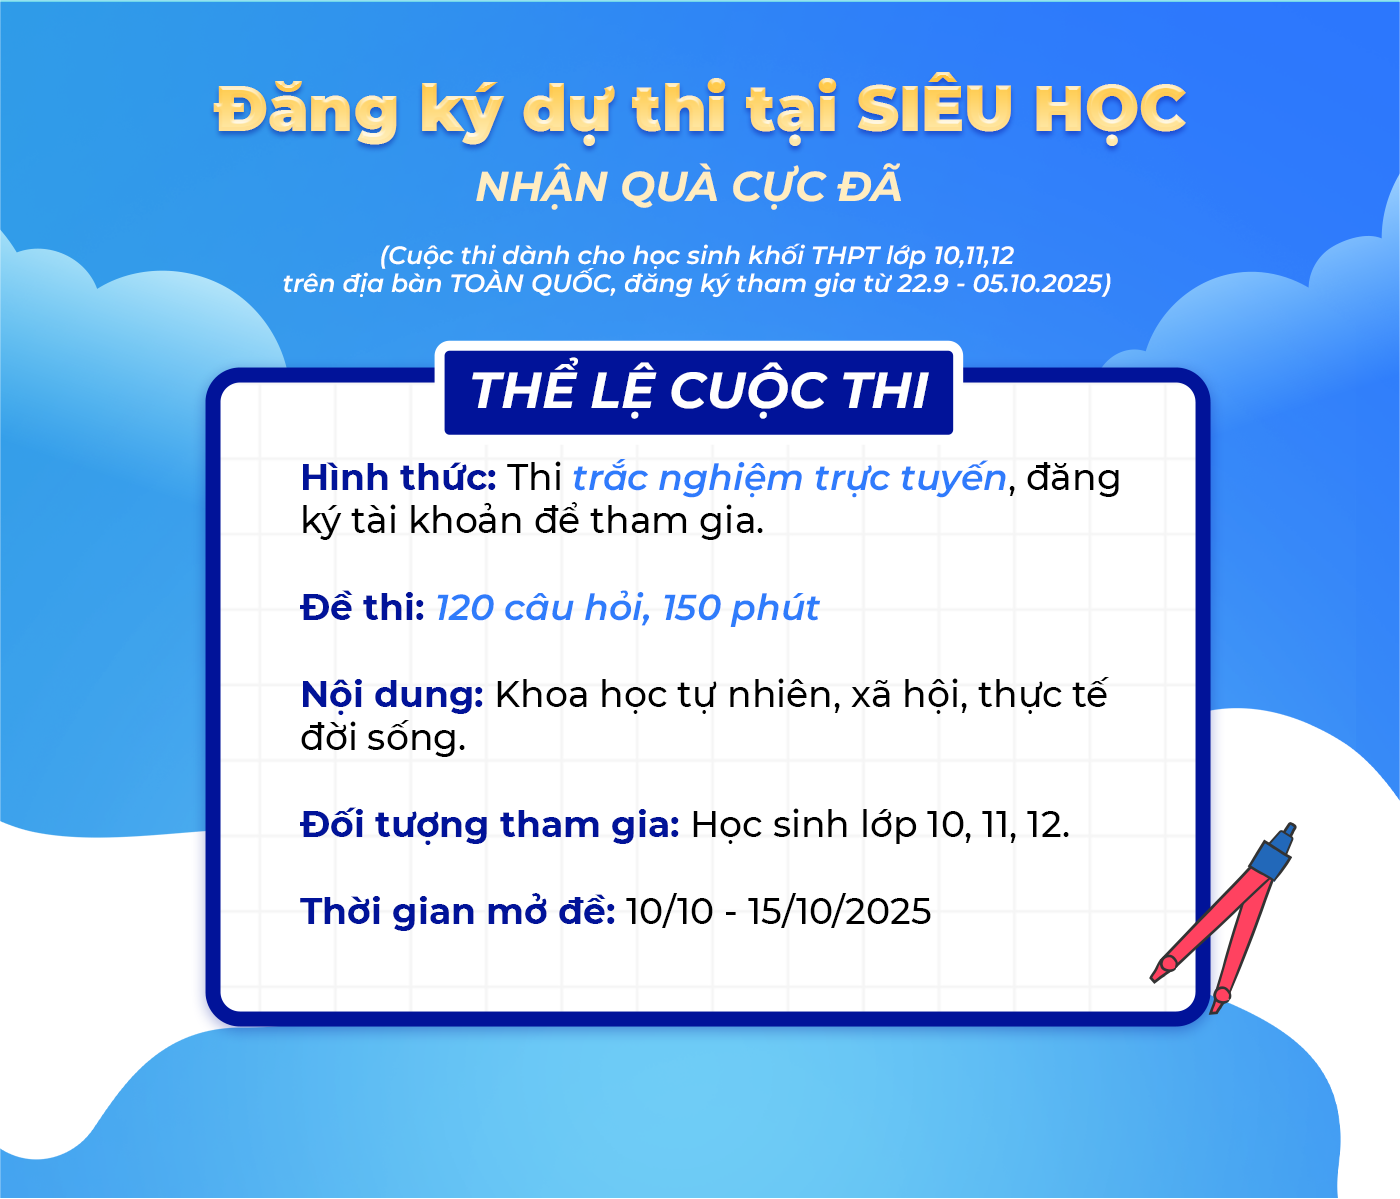
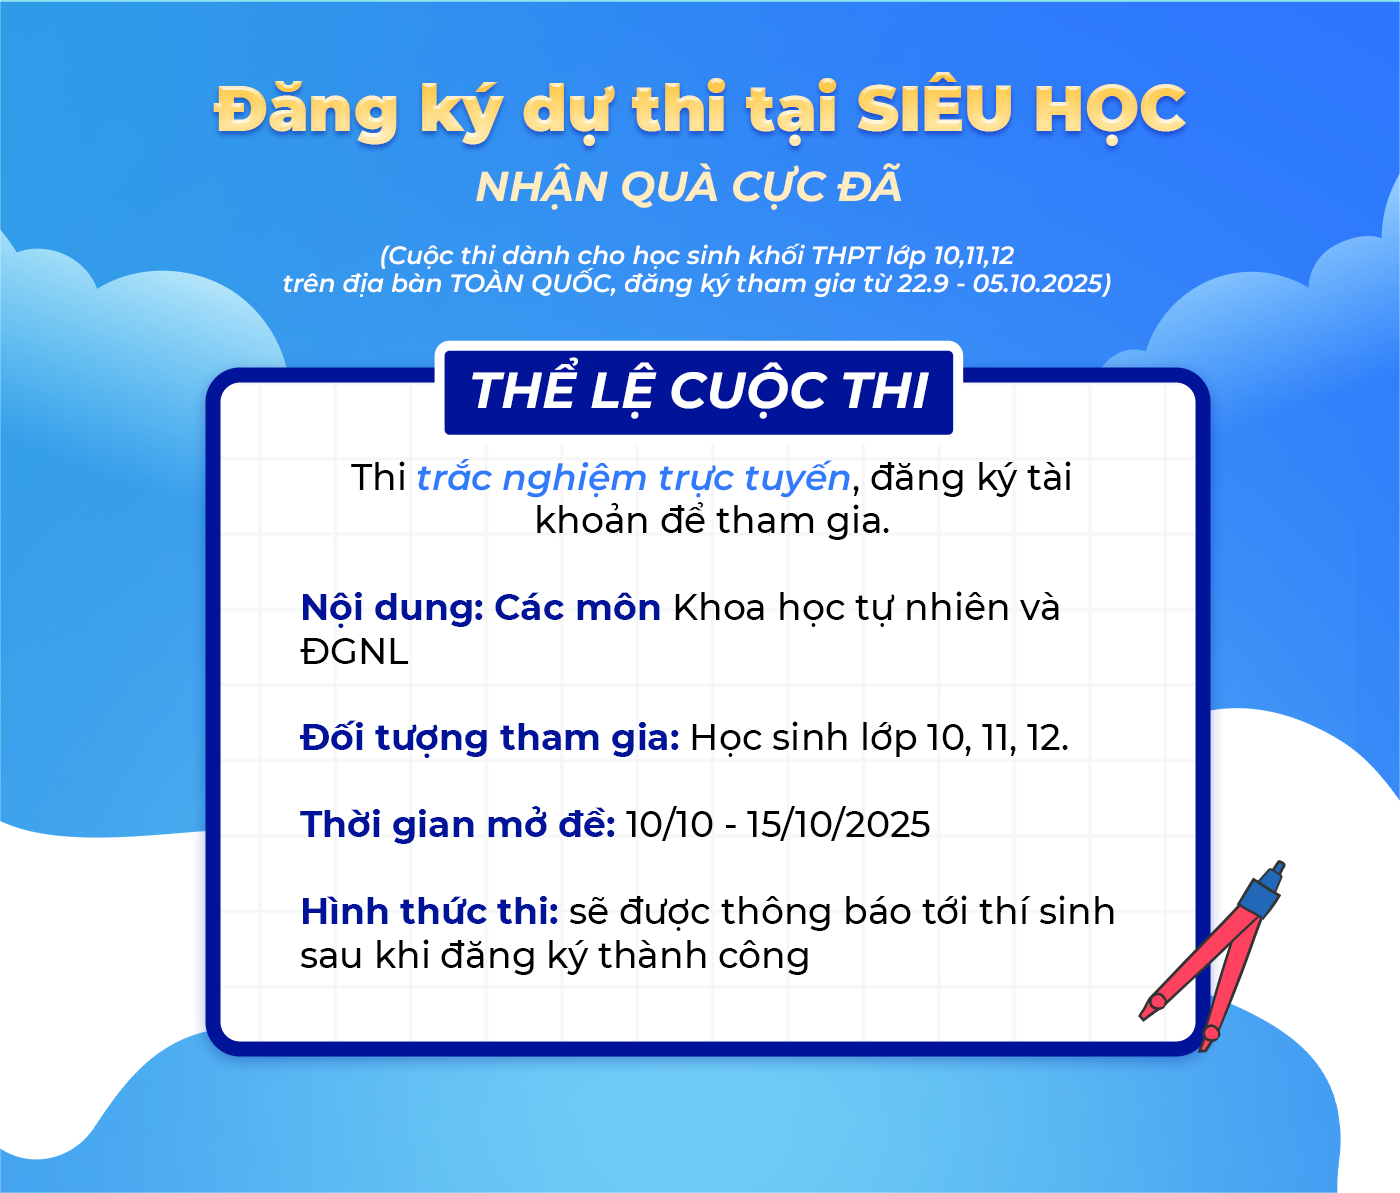
check sieu hoc 5

diff --git a/style.css b/style.css
@@ -24,7 +24,7 @@ body {
 .container { max-width: 1200px; margin: 0 auto; padding: 0 20px; }
 
 /* --- Top Bar Header --- */
-.top-bar { background: var(--gradient-main); color: white; padding: 16px 0; font-size: 1rem; box-shadow: var(--shadow-main); border-bottom-left-radius: 30px; border-bottom-right-radius: 30px; }
+.top-bar { background: var(--gradient-main); color: white; padding: 16px 0; font-size: 1rem; box-shadow: var(--shadow-main); border-bottom-left-radius: 30px; border-bottom-right-radius: 30px; position: relative;}
 .top-bar-content { display: flex; justify-content: space-between; align-items: center; gap: 20px; }
 .top-bar .logo img { height: 45px; display: block; }
 .top-bar-text { flex-grow: 1; text-align: left; margin: 0; }
@@ -124,6 +124,7 @@ body {
     background-color: var(--wave-blue); padding: 20px 0; text-align: center;
     border-bottom-left-radius: 50% 20%; border-bottom-right-radius: 50% 20%;
     position: relative; z-index: 10;
+    margin-top: 10px;
 }
 .nav-button { background-color: var(--primary-blue); color: var(--white); text-decoration: none; padding: 12px 30px; margin: 0 10px; border-radius: 50px; font-weight: 600; box-shadow: 0 4px 10px rgba(0, 0, 0, 0.15); transition: background-color 0.3s; }
 .nav-button:hover { background-color: var(--dark-blue); }
